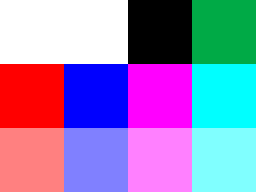
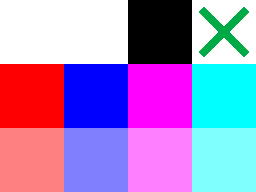
Make actual sokoban levels

Changed region(s): [[0.75, 0.0, 1.0, 0.3438]]

diff --git a/src/index.ts b/src/index.ts
@@ -46,6 +46,7 @@ export class Game extends Engine {
   static height = 600;
   player: Player = undefined as any;
   rocks: Rock[] = [];
+  rockTargets: Vector[] = [];
   cables: TileMap;
   tileMap: TileMap;
   mapList = mapOrder;
@@ -59,6 +60,7 @@ export class Game extends Engine {
     rock: new Texture('/assets/img/rock.png'),
     map: new Texture('/assets/img/map.png'),
     tileMap: new Texture('/assets/img/walls.png'),
+    cables: new Texture('/assets/img/cables.png'),
   };
 
   constructor() {
@@ -90,6 +92,7 @@ export class Game extends Engine {
     this.currentColors = {};
     this.targetColors = [];
     this.rocks = [];
+    this.rockTargets = [];
 
     const map = addBorder(maps[this.currentMap][0]);
 
@@ -105,13 +108,19 @@ export class Game extends Engine {
           if (map[y][x] === -2) {
             playerPos = new Vector(x, y);
           }
-          continue;
+          if(map[y][x] === -3) {
+            this.rockTargets.push(new Vector(x, y));
+            map[y][x] = 3;
+          } else {
+            continue;
+          }
         }
         const ts = new TileSprite('base', map[y][x] == 2 ? 0 : map[y][x]);
         // add to cell
         this.getCell(x, y).pushSprite(ts);
         this.getCell(x, y).solid = map[y][x] === 2;
         this.getCell(x, y).cable = undefined;
+        this.getCell(x, y).cross = map[y][x] === -3;
         if (map[y][x] >= 4 && map[y][x] < 8) {
           this.targetColors.push(map[y][x]);
           this.getCell(x, y).cableOrigin = map[y][x];
@@ -151,13 +160,13 @@ export class Game extends Engine {
     this.goToScene(key);
   }
 
-  public getCell(x, y): Cell & { cable?: number, cableOrigin?: number } {
+  public getCell(x, y): Cell & { cable?: number, cableOrigin?: number, cross?: boolean } {
     return this.cables.getCell(x, y)
   }
 
   public getRockAt(pos: Vector): Rock | undefined {
     for (let rock of this.rocks) {
-      if (pos.equals(tilePosition(rock.pos))) {
+      if (pos.equals(tilePosition(rock.actualPos))) {
         return rock;
       }
     }
@@ -187,7 +196,8 @@ export class Game extends Engine {
   }
 
   public isComplete() {
-    return this.targetColors.every(color => this.currentColors[color]);
+    return this.targetColors.every(color => this.currentColors[color])
+      && this.rockTargets.every(target => this.rocks.some(rock => tilePosition(rock.actualPos).equals(target)));
   }
 
   public playerMoves(from: Vector, to: Direction) {
@@ -209,6 +219,10 @@ export class Game extends Engine {
 
     if (destRock && behindClear) {
       destRock.move(to);
+      if(this.isComplete()) {
+        this.postInit();
+        return undefined;
+      }
     } else if (destRock) {
       return undefined;
     }
@@ -243,6 +257,7 @@ export class Game extends Engine {
 
     this.addScene('mainmenu', new Mainmenu(this));
 
+    this.mapList = ["11"]
     return super.start(loader)
   //    .then(() => this.goToScene('mainmenu'));
       .then(() => this.postInit());

diff --git a/src/maps.ts b/src/maps.ts
@@ -1,3 +1,4 @@
+const x = -3;
 const p = -2;
 const r = -1;
 
@@ -17,6 +18,15 @@ const introduction = [
   [2, 0, 0, 0, 0, 2, 2],
   [2, 5, 2, 2, 4, 2, 2],
   [2, 2, 2, 2, 2, 2, 2],
+]
+
+const lifegoals = [
+  [2, 2, 2, 2, 2, 2],
+  [2, p, 0, 0, 4, 2],
+  [2, 2, r, 2, 0, 2],
+  [2, 0, 0, 0, 0, 2],
+  [2, x, 0, 0, 4, 2],
+  [2, 2, 2, 2, 2, 2],
 ];
 
 const orderMatters = [
@@ -76,6 +86,23 @@ const sokobanStar = [
   [0, 0, 0, 0, 0, 0, 2, 2, 2, 2, 2, 2, 2, 0, 2, 2, 2, 0, 0],
 ];
 
+const familiar = [
+  [2,2,2,2,2,2,2,2,2,2,2,2,2,2,2],
+  [2,2,2,2,2,2,2,2,2,2,2,2,2,2,2],
+  [2,2,2,2,2,2,2,0,0,2,2,2,2,2,2],
+  [2,2,x,2,2,0,0,0,0,0,0,0,0,0,2],
+  [2,2,x,2,2,0,0,r,0,0,2,r,0,0,2],
+  [2,2,x,2,2,2,0,2,2,2,2,0,0,2,2],
+  [2,2,0,0,2,2,0,2,2,2,2,2,0,2,2],
+  [2,2,0,0,0,0,r,0,2,2,2,2,0,2,2],
+  [2,2,0,0,2,2,0,r,2,2,0,r,0,2,2],
+  [2,2,x,2,2,p,r,0,0,0,0,0,0,2,2],
+  [2,2,x,2,2,2,2,2,2,2,0,2,0,2,2],
+  [2,2,x,2,2,2,2,2,2,2,0,0,0,2,2],
+  [2,2,2,2,2,2,2,2,2,2,2,2,2,2,2],
+  [2,2,2,2,2,2,2,2,2,2,2,2,2,2,2],
+];
+
 const doubleRockTest = [
   [2, 2, 2, 2, 2, 2, 2, 2, 2, 2],
   [2, 4, p, 0, 0, r, 4, 0, 0, 2],
@@ -105,10 +132,12 @@ const EndScreen = [
 export const maps: {[id: string]: [number[][], string]} = {
   "00": [helloWorld, "Hello world!"],
   "01": [introduction, "Introduction"],
-  "02": [orderMatters, "Order matters..."],
-  "03": [sokoban1, "Sokoban"],
-  "04": [sokoban2, "Too"],
+  "02": [lifegoals, "Life goals"],
+  "03": [orderMatters, "Order matters..."],
+  "04": [sokoban1, "Sokoban"],
+  "05": [sokoban2, "Too"],
   "10": [sokobanStar, "Star"],
+  "11": [familiar, "Somehow familiar"],
   //"91": doubleRockTest,
   //"92": rockOnCableTest,
   "99": [EndScreen, ""],

diff --git a/src/rock.ts b/src/rock.ts
@@ -8,6 +8,7 @@ export class Rock extends Actor {
   texture: Texture;
   previousDirection: Vector;
   movingTo?: Vector;
+  actualPos: Vector;
 
   constructor(
     initPos: Vector,
@@ -18,6 +19,7 @@ export class Rock extends Actor {
 
     this.previousDirection = Vector.Right;
     this.texture = texture;
+    this.actualPos = this.pos;
   }
 
   onInitialize(game: Engine) {
@@ -47,5 +49,6 @@ export class Rock extends Actor {
     } else if (to === "Right") {
       this.movingTo = this.pos.add(new Vector(2 * tileSize, 0));
     }
+    this.actualPos = this.movingTo;
   }
 }
